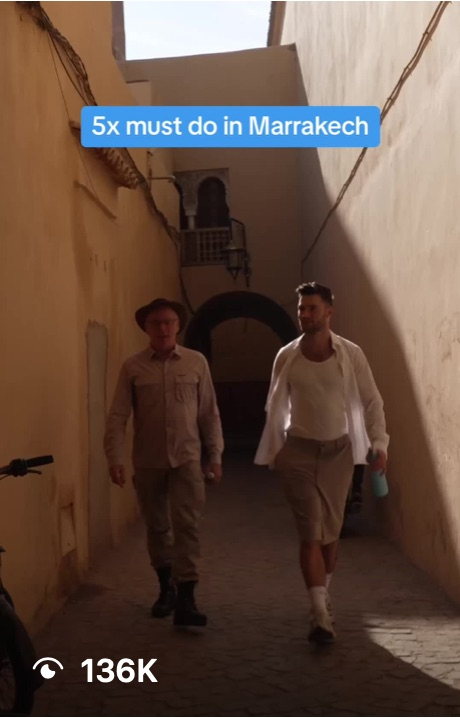
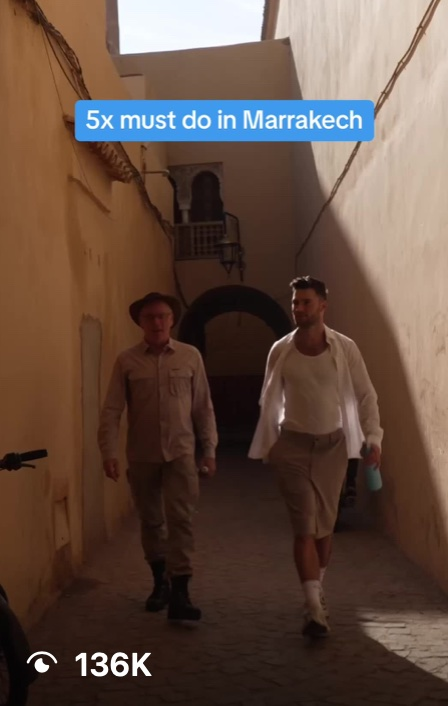
Preview: witte randen van de TUI-stills afgesneden

diff --git a/work/tui-social/index.html b/work/tui-social/index.html
@@ -96,9 +96,9 @@
     </header>
 
     <div class="cs-cover">
-      <figure class="cs-reel"><img width="456" height="714" src="/assets/img/work/tui-social-1.jpg" alt="TUI Reel: haggling in a Marrakech souk, 167K views"><figcaption><a class="reel-tag" href="https://www.instagram.com/chrisberendse/" target="_blank" rel="noopener noreferrer"><svg width="14" height="14" viewBox="0 0 24 24" fill="currentColor" aria-hidden="true"><path d="M7.0301.084c-1.2768.0602-2.1487.264-2.911.5634-.7888.3075-1.4575.72-2.1228 1.3877-.6652.6677-1.075 1.3368-1.3802 2.127-.2954.7638-.4956 1.6365-.552 2.914-.0564 1.2775-.0689 1.6882-.0626 4.947.0062 3.2586.0206 3.6671.0825 4.9473.061 1.2765.264 2.1482.5635 2.9107.308.7889.72 1.4573 1.388 2.1228.6679.6655 1.3365 1.0743 2.1285 1.38.7632.295 1.6361.4961 2.9134.552 1.2773.056 1.6884.069 4.9462.0627 3.2578-.0062 3.668-.0207 4.9478-.0814 1.28-.0607 2.147-.2652 2.9098-.5633.7889-.3086 1.4578-.72 2.1228-1.3881.665-.6682 1.0745-1.3378 1.3795-2.1284.2957-.7632.4966-1.636.552-2.9124.056-1.2809.0692-1.6898.063-4.948-.0063-3.2583-.021-3.6668-.0817-4.9465-.0607-1.2797-.264-2.1487-.5633-2.9117-.3084-.7889-.72-1.4568-1.3876-2.1228C21.2982 1.33 20.628.9208 19.8378.6165 19.074.321 18.2017.1197 16.9244.0645 15.6471.0093 15.236-.005 11.977.0014 8.718.0076 8.31.0215 7.0301.0839m.1402 21.6932c-1.17-.0509-1.8053-.2453-2.2287-.408-.5606-.216-.96-.4771-1.3819-.895-.422-.4178-.6811-.8186-.9-1.378-.1644-.4234-.3624-1.058-.4171-2.228-.0595-1.2645-.072-1.6442-.079-4.848-.007-3.2037.0053-3.583.0607-4.848.05-1.169.2456-1.805.408-2.2282.216-.5613.4762-.96.895-1.3816.4188-.4217.8184-.6814 1.3783-.9003.423-.1651 1.0575-.3614 2.227-.4171 1.2655-.06 1.6447-.072 4.848-.079 3.2033-.007 3.5835.005 4.8495.0608 1.169.0508 1.8053.2445 2.228.408.5608.216.96.4754 1.3816.895.4217.4194.6816.8176.9005 1.3787.1653.4217.3617 1.056.4169 2.2263.0602 1.2655.0739 1.645.0796 4.848.0058 3.203-.0055 3.5834-.061 4.848-.051 1.17-.245 1.8055-.408 2.2294-.216.5604-.4763.96-.8954 1.3814-.419.4215-.8181.6811-1.3783.9-.4224.1649-1.0577.3617-2.2262.4174-1.2656.0595-1.6448.072-4.8493.079-3.2045.007-3.5825-.006-4.848-.0608M16.953 5.5864A1.44 1.44 0 1 0 18.39 4.144a1.44 1.44 0 0 0-1.437 1.4424M5.8385 12.012c.0067 3.4032 2.7706 6.1557 6.173 6.1493 3.4026-.0065 6.157-2.7701 6.1506-6.1733-.0065-3.4032-2.771-6.1565-6.174-6.1498-3.403.0067-6.156 2.771-6.1496 6.1738M8 12.0077a4 4 0 1 1 4.008 3.9921A3.9996 3.9996 0 0 1 8 12.0077"></path></svg>Reel by @chrisberendse<span class="sr-only"> on Instagram (opens in a new tab)</span></a></figcaption></figure>
-      <figure class="cs-reel"><img width="460" height="718" src="/assets/img/work/tui-social-2.jpg" alt="TUI Reel: 5x must do in Marrakech, 136K views"><figcaption><a class="reel-tag" href="https://www.instagram.com/chrisberendse/" target="_blank" rel="noopener noreferrer"><svg width="14" height="14" viewBox="0 0 24 24" fill="currentColor" aria-hidden="true"><path d="M7.0301.084c-1.2768.0602-2.1487.264-2.911.5634-.7888.3075-1.4575.72-2.1228 1.3877-.6652.6677-1.075 1.3368-1.3802 2.127-.2954.7638-.4956 1.6365-.552 2.914-.0564 1.2775-.0689 1.6882-.0626 4.947.0062 3.2586.0206 3.6671.0825 4.9473.061 1.2765.264 2.1482.5635 2.9107.308.7889.72 1.4573 1.388 2.1228.6679.6655 1.3365 1.0743 2.1285 1.38.7632.295 1.6361.4961 2.9134.552 1.2773.056 1.6884.069 4.9462.0627 3.2578-.0062 3.668-.0207 4.9478-.0814 1.28-.0607 2.147-.2652 2.9098-.5633.7889-.3086 1.4578-.72 2.1228-1.3881.665-.6682 1.0745-1.3378 1.3795-2.1284.2957-.7632.4966-1.636.552-2.9124.056-1.2809.0692-1.6898.063-4.948-.0063-3.2583-.021-3.6668-.0817-4.9465-.0607-1.2797-.264-2.1487-.5633-2.9117-.3084-.7889-.72-1.4568-1.3876-2.1228C21.2982 1.33 20.628.9208 19.8378.6165 19.074.321 18.2017.1197 16.9244.0645 15.6471.0093 15.236-.005 11.977.0014 8.718.0076 8.31.0215 7.0301.0839m.1402 21.6932c-1.17-.0509-1.8053-.2453-2.2287-.408-.5606-.216-.96-.4771-1.3819-.895-.422-.4178-.6811-.8186-.9-1.378-.1644-.4234-.3624-1.058-.4171-2.228-.0595-1.2645-.072-1.6442-.079-4.848-.007-3.2037.0053-3.583.0607-4.848.05-1.169.2456-1.805.408-2.2282.216-.5613.4762-.96.895-1.3816.4188-.4217.8184-.6814 1.3783-.9003.423-.1651 1.0575-.3614 2.227-.4171 1.2655-.06 1.6447-.072 4.848-.079 3.2033-.007 3.5835.005 4.8495.0608 1.169.0508 1.8053.2445 2.228.408.5608.216.96.4754 1.3816.895.4217.4194.6816.8176.9005 1.3787.1653.4217.3617 1.056.4169 2.2263.0602 1.2655.0739 1.645.0796 4.848.0058 3.203-.0055 3.5834-.061 4.848-.051 1.17-.245 1.8055-.408 2.2294-.216.5604-.4763.96-.8954 1.3814-.419.4215-.8181.6811-1.3783.9-.4224.1649-1.0577.3617-2.2262.4174-1.2656.0595-1.6448.072-4.8493.079-3.2045.007-3.5825-.006-4.848-.0608M16.953 5.5864A1.44 1.44 0 1 0 18.39 4.144a1.44 1.44 0 0 0-1.437 1.4424M5.8385 12.012c.0067 3.4032 2.7706 6.1557 6.173 6.1493 3.4026-.0065 6.157-2.7701 6.1506-6.1733-.0065-3.4032-2.771-6.1565-6.174-6.1498-3.403.0067-6.156 2.771-6.1496 6.1738M8 12.0077a4 4 0 1 1 4.008 3.9921A3.9996 3.9996 0 0 1 8 12.0077"></path></svg>Reel by @chrisberendse<span class="sr-only"> on Instagram (opens in a new tab)</span></a></figcaption></figure>
-      <figure class="cs-reel"><img width="456" height="710" src="/assets/img/work/tui-social-3.jpg" alt="TUI Reel: buggy ride in the desert, 214K views"><figcaption><a class="reel-tag" href="https://www.instagram.com/chrisberendse/" target="_blank" rel="noopener noreferrer"><svg width="14" height="14" viewBox="0 0 24 24" fill="currentColor" aria-hidden="true"><path d="M7.0301.084c-1.2768.0602-2.1487.264-2.911.5634-.7888.3075-1.4575.72-2.1228 1.3877-.6652.6677-1.075 1.3368-1.3802 2.127-.2954.7638-.4956 1.6365-.552 2.914-.0564 1.2775-.0689 1.6882-.0626 4.947.0062 3.2586.0206 3.6671.0825 4.9473.061 1.2765.264 2.1482.5635 2.9107.308.7889.72 1.4573 1.388 2.1228.6679.6655 1.3365 1.0743 2.1285 1.38.7632.295 1.6361.4961 2.9134.552 1.2773.056 1.6884.069 4.9462.0627 3.2578-.0062 3.668-.0207 4.9478-.0814 1.28-.0607 2.147-.2652 2.9098-.5633.7889-.3086 1.4578-.72 2.1228-1.3881.665-.6682 1.0745-1.3378 1.3795-2.1284.2957-.7632.4966-1.636.552-2.9124.056-1.2809.0692-1.6898.063-4.948-.0063-3.2583-.021-3.6668-.0817-4.9465-.0607-1.2797-.264-2.1487-.5633-2.9117-.3084-.7889-.72-1.4568-1.3876-2.1228C21.2982 1.33 20.628.9208 19.8378.6165 19.074.321 18.2017.1197 16.9244.0645 15.6471.0093 15.236-.005 11.977.0014 8.718.0076 8.31.0215 7.0301.0839m.1402 21.6932c-1.17-.0509-1.8053-.2453-2.2287-.408-.5606-.216-.96-.4771-1.3819-.895-.422-.4178-.6811-.8186-.9-1.378-.1644-.4234-.3624-1.058-.4171-2.228-.0595-1.2645-.072-1.6442-.079-4.848-.007-3.2037.0053-3.583.0607-4.848.05-1.169.2456-1.805.408-2.2282.216-.5613.4762-.96.895-1.3816.4188-.4217.8184-.6814 1.3783-.9003.423-.1651 1.0575-.3614 2.227-.4171 1.2655-.06 1.6447-.072 4.848-.079 3.2033-.007 3.5835.005 4.8495.0608 1.169.0508 1.8053.2445 2.228.408.5608.216.96.4754 1.3816.895.4217.4194.6816.8176.9005 1.3787.1653.4217.3617 1.056.4169 2.2263.0602 1.2655.0739 1.645.0796 4.848.0058 3.203-.0055 3.5834-.061 4.848-.051 1.17-.245 1.8055-.408 2.2294-.216.5604-.4763.96-.8954 1.3814-.419.4215-.8181.6811-1.3783.9-.4224.1649-1.0577.3617-2.2262.4174-1.2656.0595-1.6448.072-4.8493.079-3.2045.007-3.5825-.006-4.848-.0608M16.953 5.5864A1.44 1.44 0 1 0 18.39 4.144a1.44 1.44 0 0 0-1.437 1.4424M5.8385 12.012c.0067 3.4032 2.7706 6.1557 6.173 6.1493 3.4026-.0065 6.157-2.7701 6.1506-6.1733-.0065-3.4032-2.771-6.1565-6.174-6.1498-3.403.0067-6.156 2.771-6.1496 6.1738M8 12.0077a4 4 0 1 1 4.008 3.9921A3.9996 3.9996 0 0 1 8 12.0077"></path></svg>Reel by @chrisberendse<span class="sr-only"> on Instagram (opens in a new tab)</span></a></figcaption></figure>
+      <figure class="cs-reel"><img width="444" height="702" src="/assets/img/work/tui-social-1.jpg?v=2" alt="TUI Reel: haggling in a Marrakech souk, 167K views"><figcaption><a class="reel-tag" href="https://www.instagram.com/chrisberendse/" target="_blank" rel="noopener noreferrer"><svg width="14" height="14" viewBox="0 0 24 24" fill="currentColor" aria-hidden="true"><path d="M7.0301.084c-1.2768.0602-2.1487.264-2.911.5634-.7888.3075-1.4575.72-2.1228 1.3877-.6652.6677-1.075 1.3368-1.3802 2.127-.2954.7638-.4956 1.6365-.552 2.914-.0564 1.2775-.0689 1.6882-.0626 4.947.0062 3.2586.0206 3.6671.0825 4.9473.061 1.2765.264 2.1482.5635 2.9107.308.7889.72 1.4573 1.388 2.1228.6679.6655 1.3365 1.0743 2.1285 1.38.7632.295 1.6361.4961 2.9134.552 1.2773.056 1.6884.069 4.9462.0627 3.2578-.0062 3.668-.0207 4.9478-.0814 1.28-.0607 2.147-.2652 2.9098-.5633.7889-.3086 1.4578-.72 2.1228-1.3881.665-.6682 1.0745-1.3378 1.3795-2.1284.2957-.7632.4966-1.636.552-2.9124.056-1.2809.0692-1.6898.063-4.948-.0063-3.2583-.021-3.6668-.0817-4.9465-.0607-1.2797-.264-2.1487-.5633-2.9117-.3084-.7889-.72-1.4568-1.3876-2.1228C21.2982 1.33 20.628.9208 19.8378.6165 19.074.321 18.2017.1197 16.9244.0645 15.6471.0093 15.236-.005 11.977.0014 8.718.0076 8.31.0215 7.0301.0839m.1402 21.6932c-1.17-.0509-1.8053-.2453-2.2287-.408-.5606-.216-.96-.4771-1.3819-.895-.422-.4178-.6811-.8186-.9-1.378-.1644-.4234-.3624-1.058-.4171-2.228-.0595-1.2645-.072-1.6442-.079-4.848-.007-3.2037.0053-3.583.0607-4.848.05-1.169.2456-1.805.408-2.2282.216-.5613.4762-.96.895-1.3816.4188-.4217.8184-.6814 1.3783-.9003.423-.1651 1.0575-.3614 2.227-.4171 1.2655-.06 1.6447-.072 4.848-.079 3.2033-.007 3.5835.005 4.8495.0608 1.169.0508 1.8053.2445 2.228.408.5608.216.96.4754 1.3816.895.4217.4194.6816.8176.9005 1.3787.1653.4217.3617 1.056.4169 2.2263.0602 1.2655.0739 1.645.0796 4.848.0058 3.203-.0055 3.5834-.061 4.848-.051 1.17-.245 1.8055-.408 2.2294-.216.5604-.4763.96-.8954 1.3814-.419.4215-.8181.6811-1.3783.9-.4224.1649-1.0577.3617-2.2262.4174-1.2656.0595-1.6448.072-4.8493.079-3.2045.007-3.5825-.006-4.848-.0608M16.953 5.5864A1.44 1.44 0 1 0 18.39 4.144a1.44 1.44 0 0 0-1.437 1.4424M5.8385 12.012c.0067 3.4032 2.7706 6.1557 6.173 6.1493 3.4026-.0065 6.157-2.7701 6.1506-6.1733-.0065-3.4032-2.771-6.1565-6.174-6.1498-3.403.0067-6.156 2.771-6.1496 6.1738M8 12.0077a4 4 0 1 1 4.008 3.9921A3.9996 3.9996 0 0 1 8 12.0077"></path></svg>Reel by @chrisberendse<span class="sr-only"> on Instagram (opens in a new tab)</span></a></figcaption></figure>
+      <figure class="cs-reel"><img width="448" height="706" src="/assets/img/work/tui-social-2.jpg?v=2" alt="TUI Reel: 5x must do in Marrakech, 136K views"><figcaption><a class="reel-tag" href="https://www.instagram.com/chrisberendse/" target="_blank" rel="noopener noreferrer"><svg width="14" height="14" viewBox="0 0 24 24" fill="currentColor" aria-hidden="true"><path d="M7.0301.084c-1.2768.0602-2.1487.264-2.911.5634-.7888.3075-1.4575.72-2.1228 1.3877-.6652.6677-1.075 1.3368-1.3802 2.127-.2954.7638-.4956 1.6365-.552 2.914-.0564 1.2775-.0689 1.6882-.0626 4.947.0062 3.2586.0206 3.6671.0825 4.9473.061 1.2765.264 2.1482.5635 2.9107.308.7889.72 1.4573 1.388 2.1228.6679.6655 1.3365 1.0743 2.1285 1.38.7632.295 1.6361.4961 2.9134.552 1.2773.056 1.6884.069 4.9462.0627 3.2578-.0062 3.668-.0207 4.9478-.0814 1.28-.0607 2.147-.2652 2.9098-.5633.7889-.3086 1.4578-.72 2.1228-1.3881.665-.6682 1.0745-1.3378 1.3795-2.1284.2957-.7632.4966-1.636.552-2.9124.056-1.2809.0692-1.6898.063-4.948-.0063-3.2583-.021-3.6668-.0817-4.9465-.0607-1.2797-.264-2.1487-.5633-2.9117-.3084-.7889-.72-1.4568-1.3876-2.1228C21.2982 1.33 20.628.9208 19.8378.6165 19.074.321 18.2017.1197 16.9244.0645 15.6471.0093 15.236-.005 11.977.0014 8.718.0076 8.31.0215 7.0301.0839m.1402 21.6932c-1.17-.0509-1.8053-.2453-2.2287-.408-.5606-.216-.96-.4771-1.3819-.895-.422-.4178-.6811-.8186-.9-1.378-.1644-.4234-.3624-1.058-.4171-2.228-.0595-1.2645-.072-1.6442-.079-4.848-.007-3.2037.0053-3.583.0607-4.848.05-1.169.2456-1.805.408-2.2282.216-.5613.4762-.96.895-1.3816.4188-.4217.8184-.6814 1.3783-.9003.423-.1651 1.0575-.3614 2.227-.4171 1.2655-.06 1.6447-.072 4.848-.079 3.2033-.007 3.5835.005 4.8495.0608 1.169.0508 1.8053.2445 2.228.408.5608.216.96.4754 1.3816.895.4217.4194.6816.8176.9005 1.3787.1653.4217.3617 1.056.4169 2.2263.0602 1.2655.0739 1.645.0796 4.848.0058 3.203-.0055 3.5834-.061 4.848-.051 1.17-.245 1.8055-.408 2.2294-.216.5604-.4763.96-.8954 1.3814-.419.4215-.8181.6811-1.3783.9-.4224.1649-1.0577.3617-2.2262.4174-1.2656.0595-1.6448.072-4.8493.079-3.2045.007-3.5825-.006-4.848-.0608M16.953 5.5864A1.44 1.44 0 1 0 18.39 4.144a1.44 1.44 0 0 0-1.437 1.4424M5.8385 12.012c.0067 3.4032 2.7706 6.1557 6.173 6.1493 3.4026-.0065 6.157-2.7701 6.1506-6.1733-.0065-3.4032-2.771-6.1565-6.174-6.1498-3.403.0067-6.156 2.771-6.1496 6.1738M8 12.0077a4 4 0 1 1 4.008 3.9921A3.9996 3.9996 0 0 1 8 12.0077"></path></svg>Reel by @chrisberendse<span class="sr-only"> on Instagram (opens in a new tab)</span></a></figcaption></figure>
+      <figure class="cs-reel"><img width="444" height="698" src="/assets/img/work/tui-social-3.jpg?v=2" alt="TUI Reel: buggy ride in the desert, 214K views"><figcaption><a class="reel-tag" href="https://www.instagram.com/chrisberendse/" target="_blank" rel="noopener noreferrer"><svg width="14" height="14" viewBox="0 0 24 24" fill="currentColor" aria-hidden="true"><path d="M7.0301.084c-1.2768.0602-2.1487.264-2.911.5634-.7888.3075-1.4575.72-2.1228 1.3877-.6652.6677-1.075 1.3368-1.3802 2.127-.2954.7638-.4956 1.6365-.552 2.914-.0564 1.2775-.0689 1.6882-.0626 4.947.0062 3.2586.0206 3.6671.0825 4.9473.061 1.2765.264 2.1482.5635 2.9107.308.7889.72 1.4573 1.388 2.1228.6679.6655 1.3365 1.0743 2.1285 1.38.7632.295 1.6361.4961 2.9134.552 1.2773.056 1.6884.069 4.9462.0627 3.2578-.0062 3.668-.0207 4.9478-.0814 1.28-.0607 2.147-.2652 2.9098-.5633.7889-.3086 1.4578-.72 2.1228-1.3881.665-.6682 1.0745-1.3378 1.3795-2.1284.2957-.7632.4966-1.636.552-2.9124.056-1.2809.0692-1.6898.063-4.948-.0063-3.2583-.021-3.6668-.0817-4.9465-.0607-1.2797-.264-2.1487-.5633-2.9117-.3084-.7889-.72-1.4568-1.3876-2.1228C21.2982 1.33 20.628.9208 19.8378.6165 19.074.321 18.2017.1197 16.9244.0645 15.6471.0093 15.236-.005 11.977.0014 8.718.0076 8.31.0215 7.0301.0839m.1402 21.6932c-1.17-.0509-1.8053-.2453-2.2287-.408-.5606-.216-.96-.4771-1.3819-.895-.422-.4178-.6811-.8186-.9-1.378-.1644-.4234-.3624-1.058-.4171-2.228-.0595-1.2645-.072-1.6442-.079-4.848-.007-3.2037.0053-3.583.0607-4.848.05-1.169.2456-1.805.408-2.2282.216-.5613.4762-.96.895-1.3816.4188-.4217.8184-.6814 1.3783-.9003.423-.1651 1.0575-.3614 2.227-.4171 1.2655-.06 1.6447-.072 4.848-.079 3.2033-.007 3.5835.005 4.8495.0608 1.169.0508 1.8053.2445 2.228.408.5608.216.96.4754 1.3816.895.4217.4194.6816.8176.9005 1.3787.1653.4217.3617 1.056.4169 2.2263.0602 1.2655.0739 1.645.0796 4.848.0058 3.203-.0055 3.5834-.061 4.848-.051 1.17-.245 1.8055-.408 2.2294-.216.5604-.4763.96-.8954 1.3814-.419.4215-.8181.6811-1.3783.9-.4224.1649-1.0577.3617-2.2262.4174-1.2656.0595-1.6448.072-4.8493.079-3.2045.007-3.5825-.006-4.848-.0608M16.953 5.5864A1.44 1.44 0 1 0 18.39 4.144a1.44 1.44 0 0 0-1.437 1.4424M5.8385 12.012c.0067 3.4032 2.7706 6.1557 6.173 6.1493 3.4026-.0065 6.157-2.7701 6.1506-6.1733-.0065-3.4032-2.771-6.1565-6.174-6.1498-3.403.0067-6.156 2.771-6.1496 6.1738M8 12.0077a4 4 0 1 1 4.008 3.9921A3.9996 3.9996 0 0 1 8 12.0077"></path></svg>Reel by @chrisberendse<span class="sr-only"> on Instagram (opens in a new tab)</span></a></figcaption></figure>
     </div>
 
     <section class="cs-block">

diff --git a/index.html b/index.html
@@ -145,7 +145,7 @@
   <section id="work" class="wk" aria-labelledby="work-title">
     <h2 id="work-title">Selected Work</h2>
     <a class="wk-feat" href="/work/tui-social/">
-      <span class="wk-media wk-media-lg"><img width="456" height="714" loading="lazy" decoding="async" src="/assets/img/work/tui-social-1.jpg" alt="Still from a TUI Reel: haggling in a Marrakech souk, 167K views"><span class="reel-tag"><svg width="14" height="14" viewBox="0 0 24 24" fill="currentColor" aria-hidden="true"><path d="M7.0301.084c-1.2768.0602-2.1487.264-2.911.5634-.7888.3075-1.4575.72-2.1228 1.3877-.6652.6677-1.075 1.3368-1.3802 2.127-.2954.7638-.4956 1.6365-.552 2.914-.0564 1.2775-.0689 1.6882-.0626 4.947.0062 3.2586.0206 3.6671.0825 4.9473.061 1.2765.264 2.1482.5635 2.9107.308.7889.72 1.4573 1.388 2.1228.6679.6655 1.3365 1.0743 2.1285 1.38.7632.295 1.6361.4961 2.9134.552 1.2773.056 1.6884.069 4.9462.0627 3.2578-.0062 3.668-.0207 4.9478-.0814 1.28-.0607 2.147-.2652 2.9098-.5633.7889-.3086 1.4578-.72 2.1228-1.3881.665-.6682 1.0745-1.3378 1.3795-2.1284.2957-.7632.4966-1.636.552-2.9124.056-1.2809.0692-1.6898.063-4.948-.0063-3.2583-.021-3.6668-.0817-4.9465-.0607-1.2797-.264-2.1487-.5633-2.9117-.3084-.7889-.72-1.4568-1.3876-2.1228C21.2982 1.33 20.628.9208 19.8378.6165 19.074.321 18.2017.1197 16.9244.0645 15.6471.0093 15.236-.005 11.977.0014 8.718.0076 8.31.0215 7.0301.0839m.1402 21.6932c-1.17-.0509-1.8053-.2453-2.2287-.408-.5606-.216-.96-.4771-1.3819-.895-.422-.4178-.6811-.8186-.9-1.378-.1644-.4234-.3624-1.058-.4171-2.228-.0595-1.2645-.072-1.6442-.079-4.848-.007-3.2037.0053-3.583.0607-4.848.05-1.169.2456-1.805.408-2.2282.216-.5613.4762-.96.895-1.3816.4188-.4217.8184-.6814 1.3783-.9003.423-.1651 1.0575-.3614 2.227-.4171 1.2655-.06 1.6447-.072 4.848-.079 3.2033-.007 3.5835.005 4.8495.0608 1.169.0508 1.8053.2445 2.228.408.5608.216.96.4754 1.3816.895.4217.4194.6816.8176.9005 1.3787.1653.4217.3617 1.056.4169 2.2263.0602 1.2655.0739 1.645.0796 4.848.0058 3.203-.0055 3.5834-.061 4.848-.051 1.17-.245 1.8055-.408 2.2294-.216.5604-.4763.96-.8954 1.3814-.419.4215-.8181.6811-1.3783.9-.4224.1649-1.0577.3617-2.2262.4174-1.2656.0595-1.6448.072-4.8493.079-3.2045.007-3.5825-.006-4.848-.0608M16.953 5.5864A1.44 1.44 0 1 0 18.39 4.144a1.44 1.44 0 0 0-1.437 1.4424M5.8385 12.012c.0067 3.4032 2.7706 6.1557 6.173 6.1493 3.4026-.0065 6.157-2.7701 6.1506-6.1733-.0065-3.4032-2.771-6.1565-6.174-6.1498-3.403.0067-6.156 2.771-6.1496 6.1738M8 12.0077a4 4 0 1 1 4.008 3.9921A3.9996 3.9996 0 0 1 8 12.0077"></path></svg>Reel by @chrisberendse</span></span>
+      <span class="wk-media wk-media-lg"><img width="444" height="702" loading="lazy" decoding="async" src="/assets/img/work/tui-social-1.jpg?v=2" alt="Still from a TUI Reel: haggling in a Marrakech souk, 167K views"><span class="reel-tag"><svg width="14" height="14" viewBox="0 0 24 24" fill="currentColor" aria-hidden="true"><path d="M7.0301.084c-1.2768.0602-2.1487.264-2.911.5634-.7888.3075-1.4575.72-2.1228 1.3877-.6652.6677-1.075 1.3368-1.3802 2.127-.2954.7638-.4956 1.6365-.552 2.914-.0564 1.2775-.0689 1.6882-.0626 4.947.0062 3.2586.0206 3.6671.0825 4.9473.061 1.2765.264 2.1482.5635 2.9107.308.7889.72 1.4573 1.388 2.1228.6679.6655 1.3365 1.0743 2.1285 1.38.7632.295 1.6361.4961 2.9134.552 1.2773.056 1.6884.069 4.9462.0627 3.2578-.0062 3.668-.0207 4.9478-.0814 1.28-.0607 2.147-.2652 2.9098-.5633.7889-.3086 1.4578-.72 2.1228-1.3881.665-.6682 1.0745-1.3378 1.3795-2.1284.2957-.7632.4966-1.636.552-2.9124.056-1.2809.0692-1.6898.063-4.948-.0063-3.2583-.021-3.6668-.0817-4.9465-.0607-1.2797-.264-2.1487-.5633-2.9117-.3084-.7889-.72-1.4568-1.3876-2.1228C21.2982 1.33 20.628.9208 19.8378.6165 19.074.321 18.2017.1197 16.9244.0645 15.6471.0093 15.236-.005 11.977.0014 8.718.0076 8.31.0215 7.0301.0839m.1402 21.6932c-1.17-.0509-1.8053-.2453-2.2287-.408-.5606-.216-.96-.4771-1.3819-.895-.422-.4178-.6811-.8186-.9-1.378-.1644-.4234-.3624-1.058-.4171-2.228-.0595-1.2645-.072-1.6442-.079-4.848-.007-3.2037.0053-3.583.0607-4.848.05-1.169.2456-1.805.408-2.2282.216-.5613.4762-.96.895-1.3816.4188-.4217.8184-.6814 1.3783-.9003.423-.1651 1.0575-.3614 2.227-.4171 1.2655-.06 1.6447-.072 4.848-.079 3.2033-.007 3.5835.005 4.8495.0608 1.169.0508 1.8053.2445 2.228.408.5608.216.96.4754 1.3816.895.4217.4194.6816.8176.9005 1.3787.1653.4217.3617 1.056.4169 2.2263.0602 1.2655.0739 1.645.0796 4.848.0058 3.203-.0055 3.5834-.061 4.848-.051 1.17-.245 1.8055-.408 2.2294-.216.5604-.4763.96-.8954 1.3814-.419.4215-.8181.6811-1.3783.9-.4224.1649-1.0577.3617-2.2262.4174-1.2656.0595-1.6448.072-4.8493.079-3.2045.007-3.5825-.006-4.848-.0608M16.953 5.5864A1.44 1.44 0 1 0 18.39 4.144a1.44 1.44 0 0 0-1.437 1.4424M5.8385 12.012c.0067 3.4032 2.7706 6.1557 6.173 6.1493 3.4026-.0065 6.157-2.7701 6.1506-6.1733-.0065-3.4032-2.771-6.1565-6.174-6.1498-3.403.0067-6.156 2.771-6.1496 6.1738M8 12.0077a4 4 0 1 1 4.008 3.9921A3.9996 3.9996 0 0 1 8 12.0077"></path></svg>Reel by @chrisberendse</span></span>
       <span class="wk-feat-text">
         <span class="wk-client">The Best Social · for TUI</span>
         <h3>TUI Social Strategy</h3>
